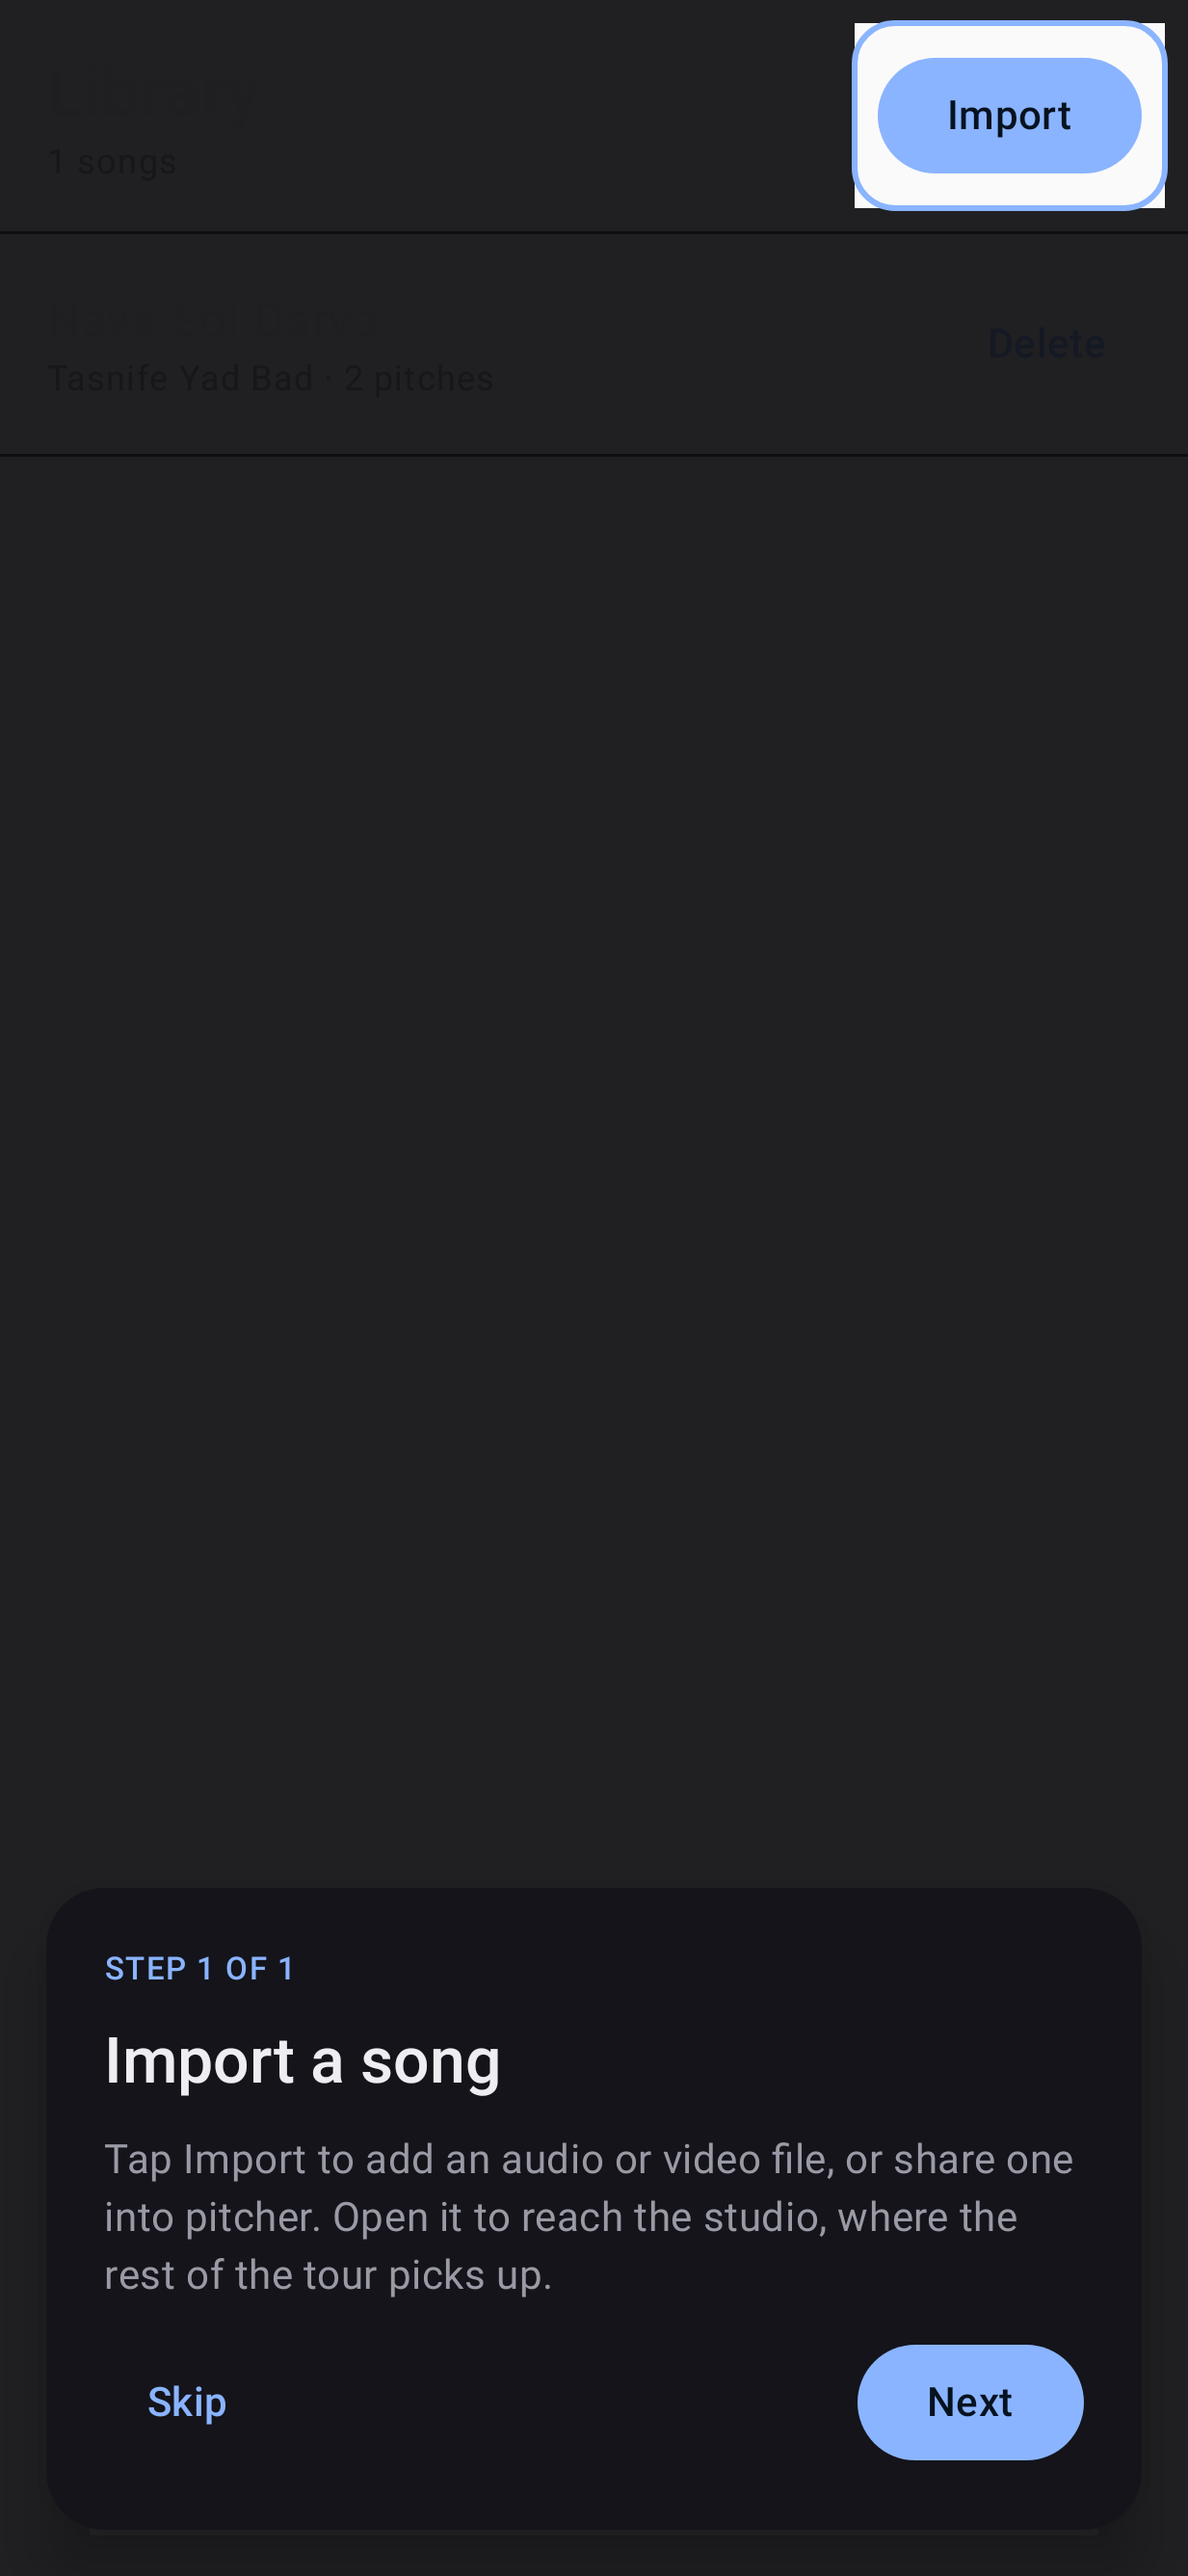
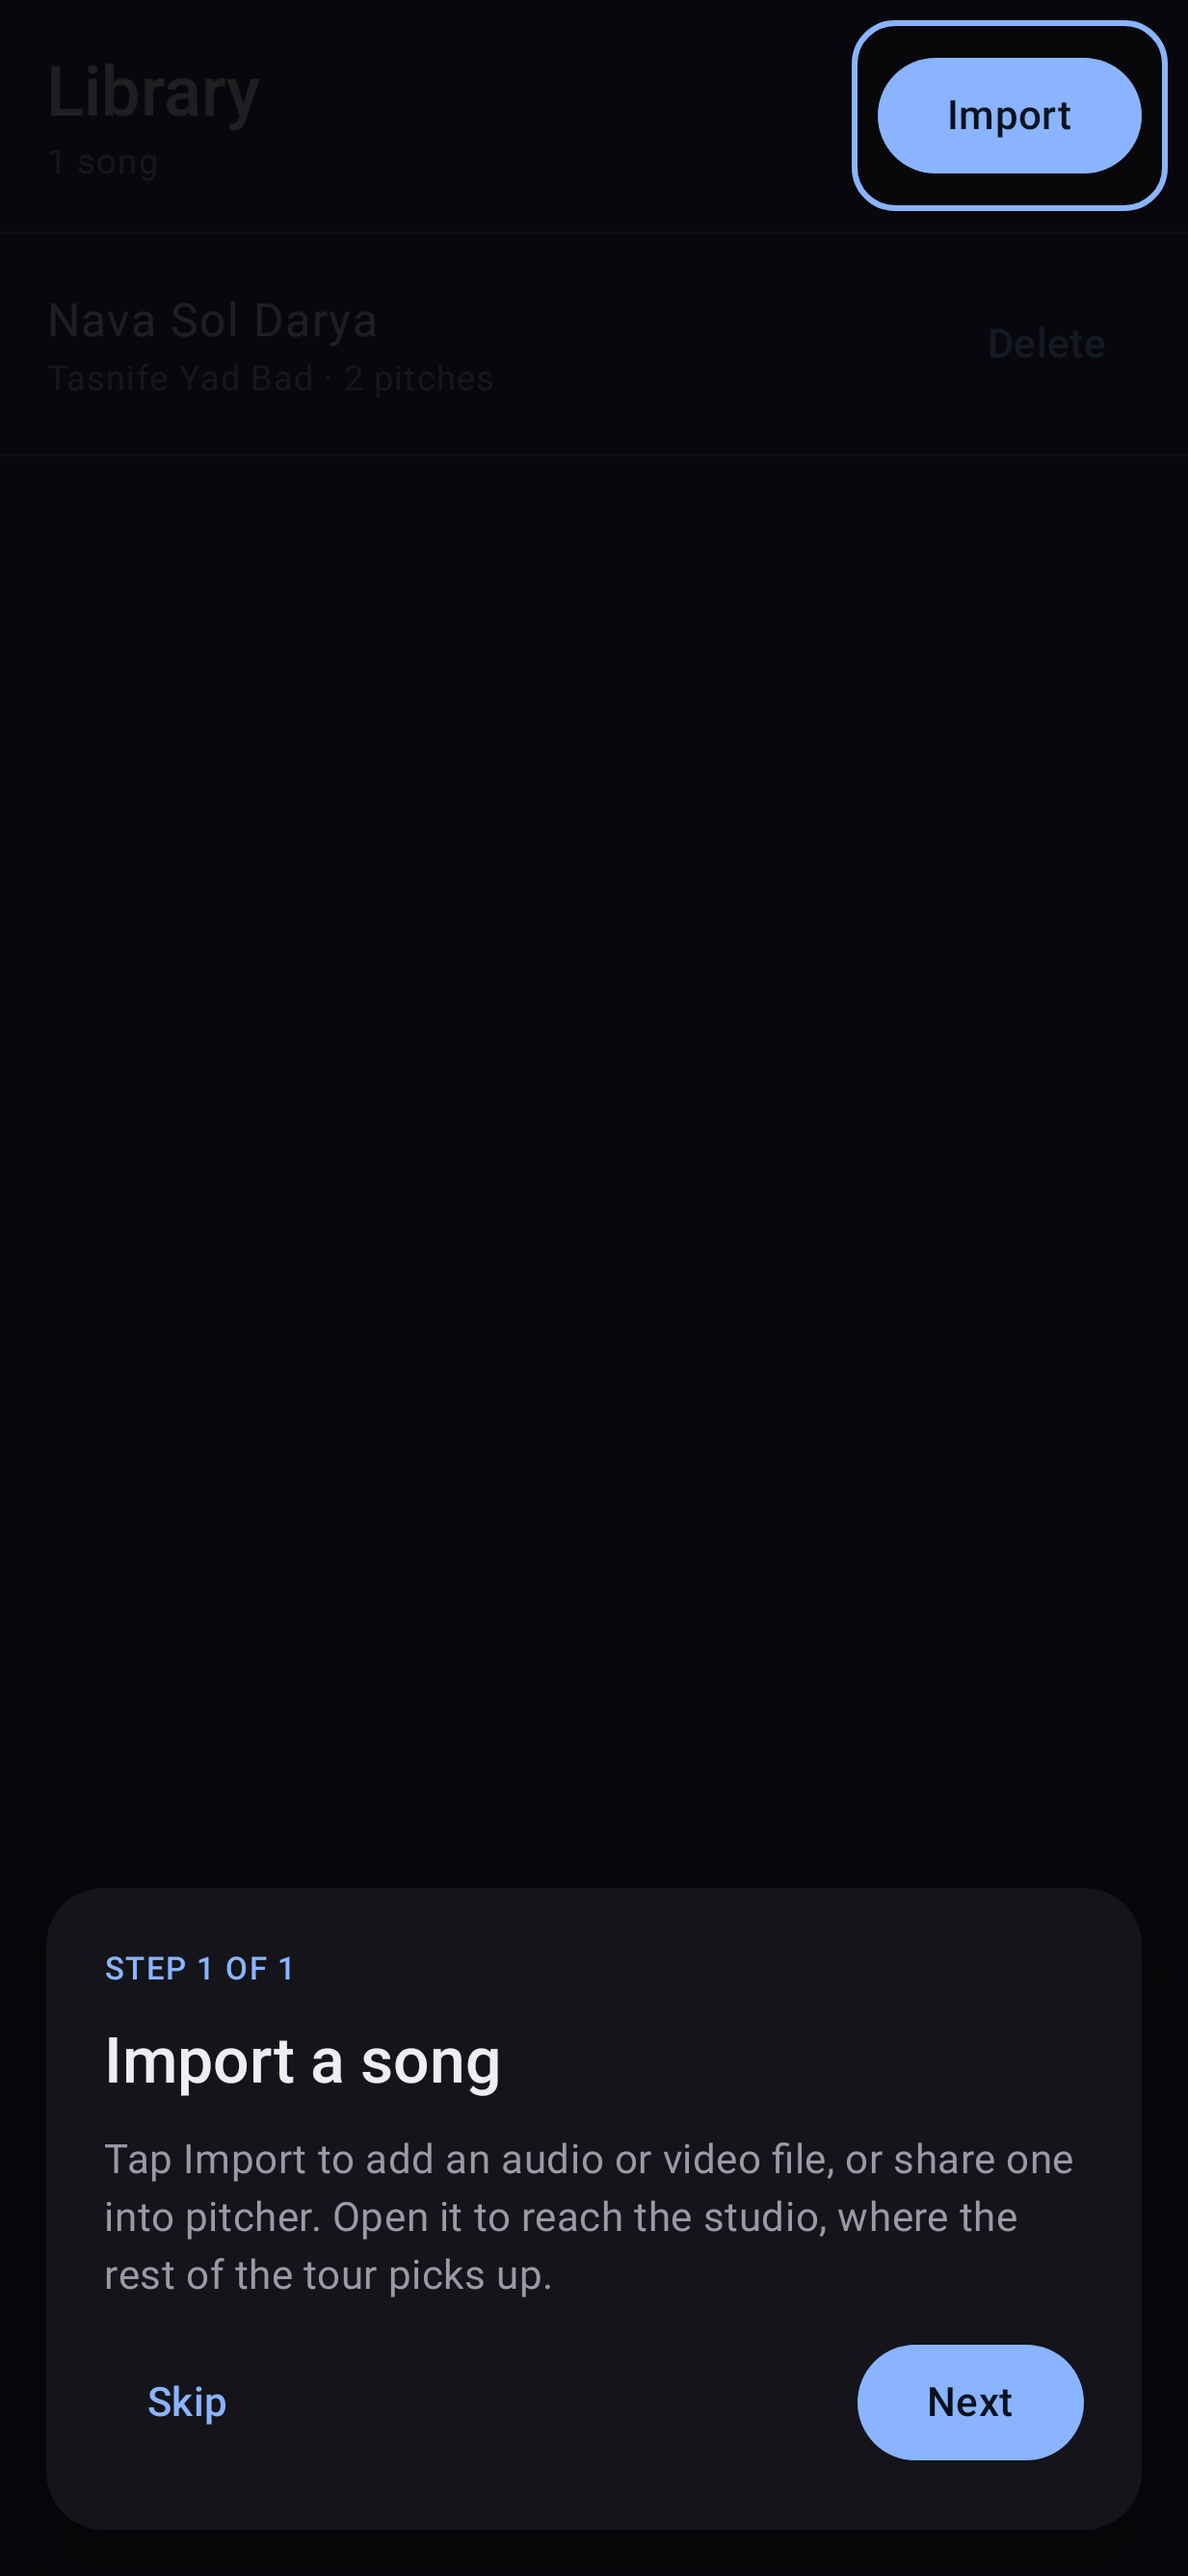
Refresh the store screenshots on the app's dark background
linsui spotted on the F-Droid MR that the library screenshot's text is not
readable. The capture ran on Roborazzi's white host rather than the app's dark
window, so the light title text washed out; the app itself is fine. Drawing the
theme background in the screenshot test fixes the render, and the published
copies in fastlane/ and site/assets/ are regenerated. No app code changes.

Changed region(s): [[0.7088, 0.0, 0.9862, 0.0932]]

diff --git a/android/app/src/test/kotlin/pitcher/android/ui/ScreenshotTest.kt b/android/app/src/test/kotlin/pitcher/android/ui/ScreenshotTest.kt
@@ -1,6 +1,8 @@
 package pitcher.android.ui
 
 import androidx.compose.foundation.layout.Box
+import androidx.compose.foundation.layout.fillMaxSize
+import androidx.compose.material3.MaterialTheme
 import androidx.compose.runtime.Composable
 import androidx.compose.ui.test.junit4.createComposeRule
 import androidx.compose.ui.test.onRoot
@@ -55,6 +57,17 @@ class ScreenshotTest {
         compose.mainClock.advanceTimeBy(1_000)
     }
 
+    // The app window is dark, but the Roborazzi host is white, so screens that
+    // rely on the window background need it drawn here to match the device.
+    @Composable
+    private fun AppScreen(content: @Composable () -> Unit) {
+        Box(
+            modifier = Modifier
+                .fillMaxSize()
+                .background(MaterialTheme.colorScheme.background),
+        ) { content() }
+    }
+
     private val track = Track(
         id = 1,
         sourcePath = "/data/imports/nava.m4a",
@@ -99,15 +112,17 @@ class ScreenshotTest {
         )
         compose.setContent {
             ModernTheme {
-                LibraryContent(
-                    tracks = listOf(track, farsi),
-                    message = null,
-                    canClose = true,
-                    onImport = {},
-                    onClose = {},
-                    onOpen = {},
-                    onDelete = {},
-                )
+                AppScreen {
+                    LibraryContent(
+                        tracks = listOf(track, farsi),
+                        message = null,
+                        canClose = true,
+                        onImport = {},
+                        onClose = {},
+                        onOpen = {},
+                        onDelete = {},
+                    )
+                }
             }
         }
         settle()
@@ -146,23 +161,25 @@ class ScreenshotTest {
         val targets = OnboardingTargets()
         compose.setContent {
             ModernTheme {
-                Box {
-                    LibraryContent(
-                        tracks = listOf(track),
-                        message = null,
-                        canClose = false,
-                        onImport = {},
-                        onClose = {},
-                        onOpen = {},
-                        onDelete = {},
-                        onboarding = targets,
-                    )
-                    OnboardingOverlay(
-                        targets = targets,
-                        steps = LIBRARY_TOUR,
-                        finalLabel = "Next",
-                        onFinish = {},
-                    )
+                AppScreen {
+                    Box {
+                        LibraryContent(
+                            tracks = listOf(track),
+                            message = null,
+                            canClose = false,
+                            onImport = {},
+                            onClose = {},
+                            onOpen = {},
+                            onDelete = {},
+                            onboarding = targets,
+                        )
+                        OnboardingOverlay(
+                            targets = targets,
+                            steps = LIBRARY_TOUR,
+                            finalLabel = "Next",
+                            onFinish = {},
+                        )
+                    }
                 }
             }
         }
